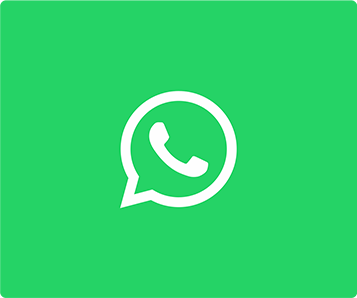
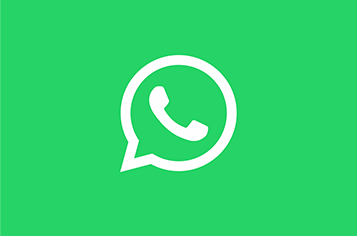
responsiveness at images of side-posts

diff --git a/3.index.html b/3.index.html
@@ -30,7 +30,7 @@
 
       main {
         margin-top: 20px;
-        background-color: lightslategray;
+        /* background-color: lightslategray; */
         max-width: 85%;
         min-height: 200px;
         display: flex;
@@ -77,6 +77,27 @@
         /* margin-top: 1rem; */
       }
 
+      .whatsapp-divider {
+        background: rgb(56, 179, 137);
+        background: linear-gradient(
+          -45deg,
+          rgba(56, 179, 137, 1) 0%,
+          rgba(117, 199, 207, 1) 100%
+        );
+        width: 35%;
+        height: 0.3rem;
+        /* margin-top: 1rem; */
+      }
+
+      footer {
+        background-color: orangered;
+        display: flex;
+        justify-content: center;
+        align-items: center;
+        height: 15%;
+        margin: 20px 0;
+      }
+
       /* small */
       @media screen and (max-width: 330px) {
         body {
@@ -106,23 +127,8 @@
       }
 
       @media (max-width: 321px) {
-        .nba-post {
-            /* display: none; */
-            /* width: 100%; */
-            /* height: 50%; */
-            /* min-width: 307px; */
-            height: 216px;
-        }
-
-        .whatsapp-image {
-            /* min-width: 307px; */
-            height: 216px;
-            /* position: relative; */
-            /* bottom: 10%; */
-            /* margin: 0 auto; */
-            /* display: none; */
-            /* width: 100%; */
-            /* height: 50%; */
+        footer {
+          width: 95%;
         }
       }
       /* medium phone */
@@ -170,72 +176,52 @@
         }
 
         .main-post {
-        width: 100%;
-        background-color: pink;
-      }
+          width: 100%;
+          /* background-color: pink; */
+        }
 
         .side-posts {
-          width: 85%;
-          margin: 20px 0;
-          /* border: 1px solid green; */
-          /* min-height: 300px; */
-          /* background-color: yellow; */
+          margin: 10px 0;
           display: flex;
           /* flex: 1; */
-          /* justify-content: center; */
-          /* align-items: center; */
-          /* flex-direction: column; */
+          width: 85%;
+          /* min-height: 300px; */
+          /* min-height: 600px; */
+          /* background-color: yellow; */
+          flex-direction: column;
+          justify-content: center;
+
+          align-items: center;
         }
 
-        .first-post, .second-post {
-            margin: 10px 0;
-            width: 100%;
-            height: 50%;
+        .side-posts h3 {
+          margin: 10px 0;
+        }
+
+        .side-posts p {
+          margin: 7px 0;
+        }
+
+        .card img {
+          max-width: 100%;
+        }
+
+        .card {
+          margin: 10px 0;
+          /* background-color: blue; */
+          /* height: 30px; */
+          /* flex: 0.5; */
+          flex: 1;
+          /* max-height: 300px; */
+          width: 100%;
           /* border: 1px solid black; */
-          /* height: 3000px; */
-          background-color: yellow;
-          /* display: flex; */
-          /* flex-direction: column; */
-          /* align-items: center; */
-          /* justify-content: center; */
+          /* border-bottom: 1px solid black; */
+          display: flex;
+
+          flex-direction: column;
         }
 
-        img {
-            max-width: 120%;
-            object-fit: cover;
-        }
-
-        .image-container {
-            width: 100%;
-            min-height: 50%;
-            /* height: 300px; */
-            /* max-height: 236px; */
-            overflow: hidden;
-            display: flex;
-            align-self: center;
-            justify-content: center;
-            /* align-items: center; */
-            background-color: gray;
-            border: 1px solid goldenrod;
-        }
-
-        .nba-post {
-            /* display: none; */
-            /* width: 100%; */
-            /* height: 50%; */
-            min-width: 357px;
-            max-height: 236px;
-        }
-
-        .whatsapp-image {
-            min-width: 357px;
-            max-height: 236px;
-            /* position: relative; */
-            /* bottom: 10%; */
-            /* margin: 0 auto; */
-            /* display: none; */
-            /* width: 100%; */
-            /* height: 50%; */
+        footer {
         }
       }
 
@@ -317,6 +303,10 @@
           position: relative;
           top: 107.5px;
         }
+
+        footer {
+          width: 95%;
+        }
       }
     </style>
   </head>
@@ -363,19 +353,25 @@
         <div class="divider"></div>
       </article>
       <article class="side-posts">
-        <section class="first-post">
-          <div class="image-container">
-            <img class="nba-post" src="images/nba.png" alt="" />
-          </div>
-          <section class="second-post">
-            <div class="image-container">
-              <img class="whatsapp-image" src="images/5454.png" alt="" />
-            </div>
-
-            <h3>Whatsapp terá função de pagamento em 2020</h3>
+        <section class="card">
+          <img src="images/nba.png" alt="" />
+          <h3>Petição para colocar Kobe Bryant como logo da NBA.</h3>
+          <p>Fonte: Daily Mail</p>
+          <div class="nba-divider"></div>
+        </section>
+        <section class="card">
+          <img src="images/5454.png" alt="" />
+          <h3>WhatsApp terá função de pagamentos em 2020.</h3>
+          <p>Fonte: Proxxima</p>
+          <div class="whatsapp-divider"></div>
         </section>
       </article>
     </main>
+    <footer>
+      <div class="logo-footer">
+        <object data="images/logo-footer.svg" type=""></object>
+      </div>
+    </footer>
     <script>
       const header = document.getElementsByTagName("header");
 

diff --git a/texto.html b/texto.html
@@ -1,0 +1,5 @@
+<h3>Petição para colocar Kobe Bryant como logo da NBA.</h3>
+<p>Fonte: Daily Mail</p>
+
+<h3>WhatsApp terá função de pagamentos em 2020.</h3>
+<p>Fonte: Proxxima</p>
